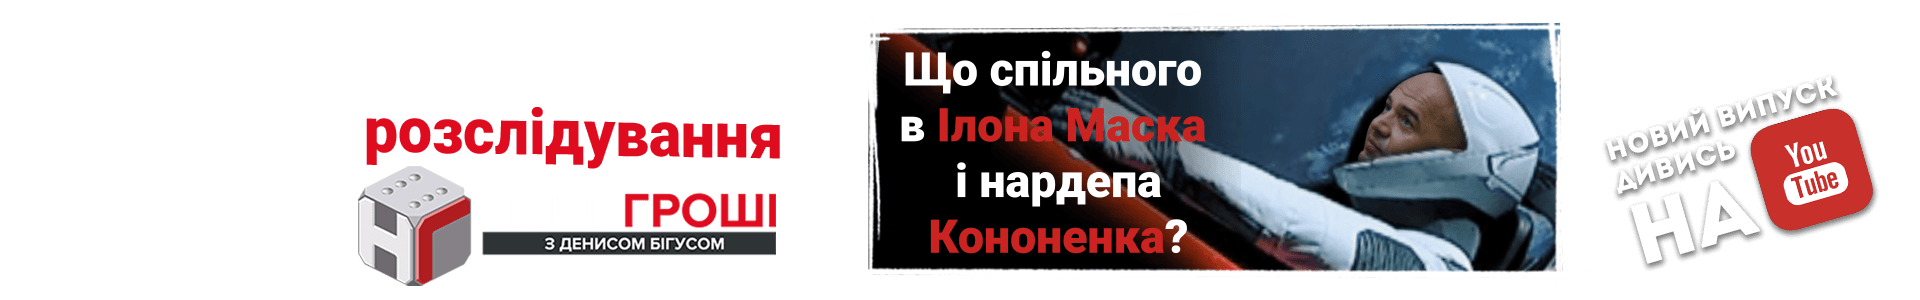
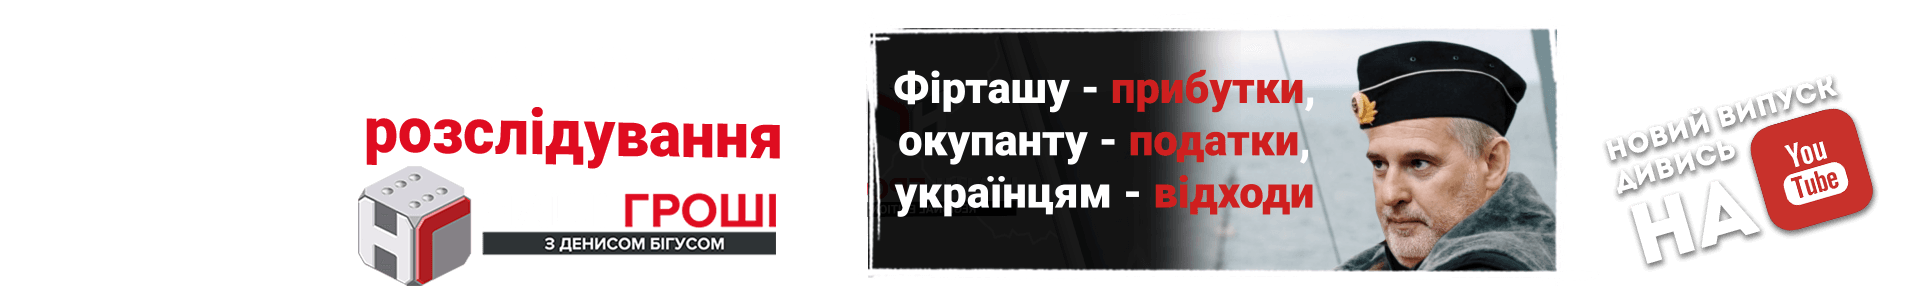
final fixes for branding

Changed region(s): [[0.4375, 0.06, 0.8125, 0.93]]

diff --git a/declarations_site/catalog/static/sass/_base.scss b/declarations_site/catalog/static/sass/_base.scss
@@ -969,33 +969,28 @@ ol.social-list > li {
             display: block;
             position: fixed;
             height: 50vh;
-
-            @media (min-width: 768px) {
-                width: calc((100% - 750px) / 2);
-            }
-
-            @media (min-width: 992px) {
-                width: calc((100% - 970px) / 2);
-            }
-
-            @media (min-width: 1200px) {
-                width: calc((100% - 1170px) / 2);
-            }
         }
 
         &:before {
             left: 0;
-            top: 180px;
+            top: 50px;
             background: url(../images/branding/bihus.png) no-repeat top left;
             background-size: contain;
             width: 33.333%;
+
+            @media (min-width: 1600px) {
+                top: 180px;
+            }
         }
 
         &:after {
-            right: 0;
-            bottom: 0vh;
-            background: url(../images/branding/bihus-dreams.png) no-repeat bottom right;
-            background-size: contain;
+            @media (min-width: 1400px) {
+                right: 0;
+                bottom: 0vh;
+                background: url(../images/branding/bihus-dreams.png) no-repeat bottom right;
+                background-size: contain;
+                width: calc((100% - 1170px) / 2);
+            }
         }
     }
 
